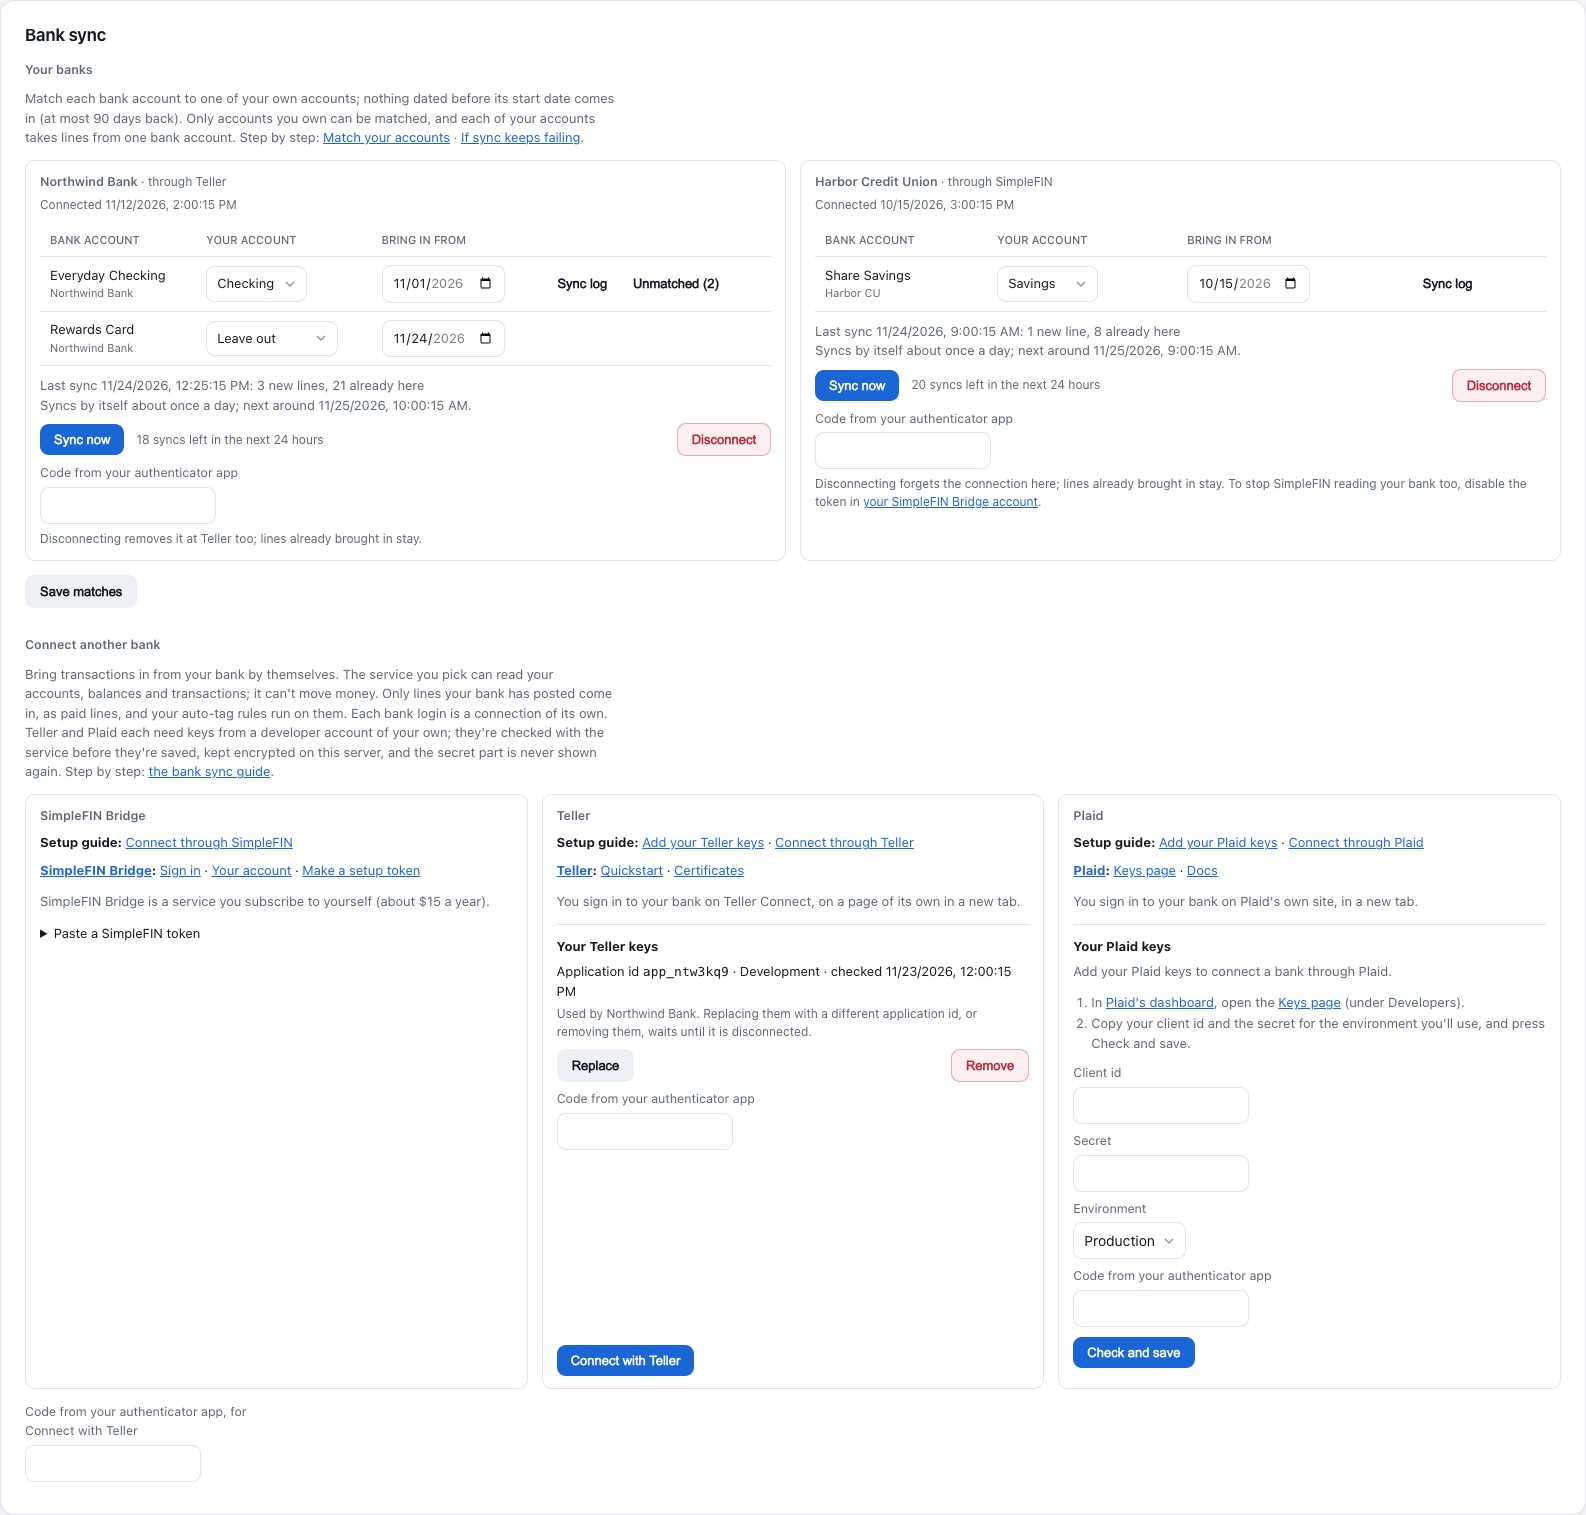
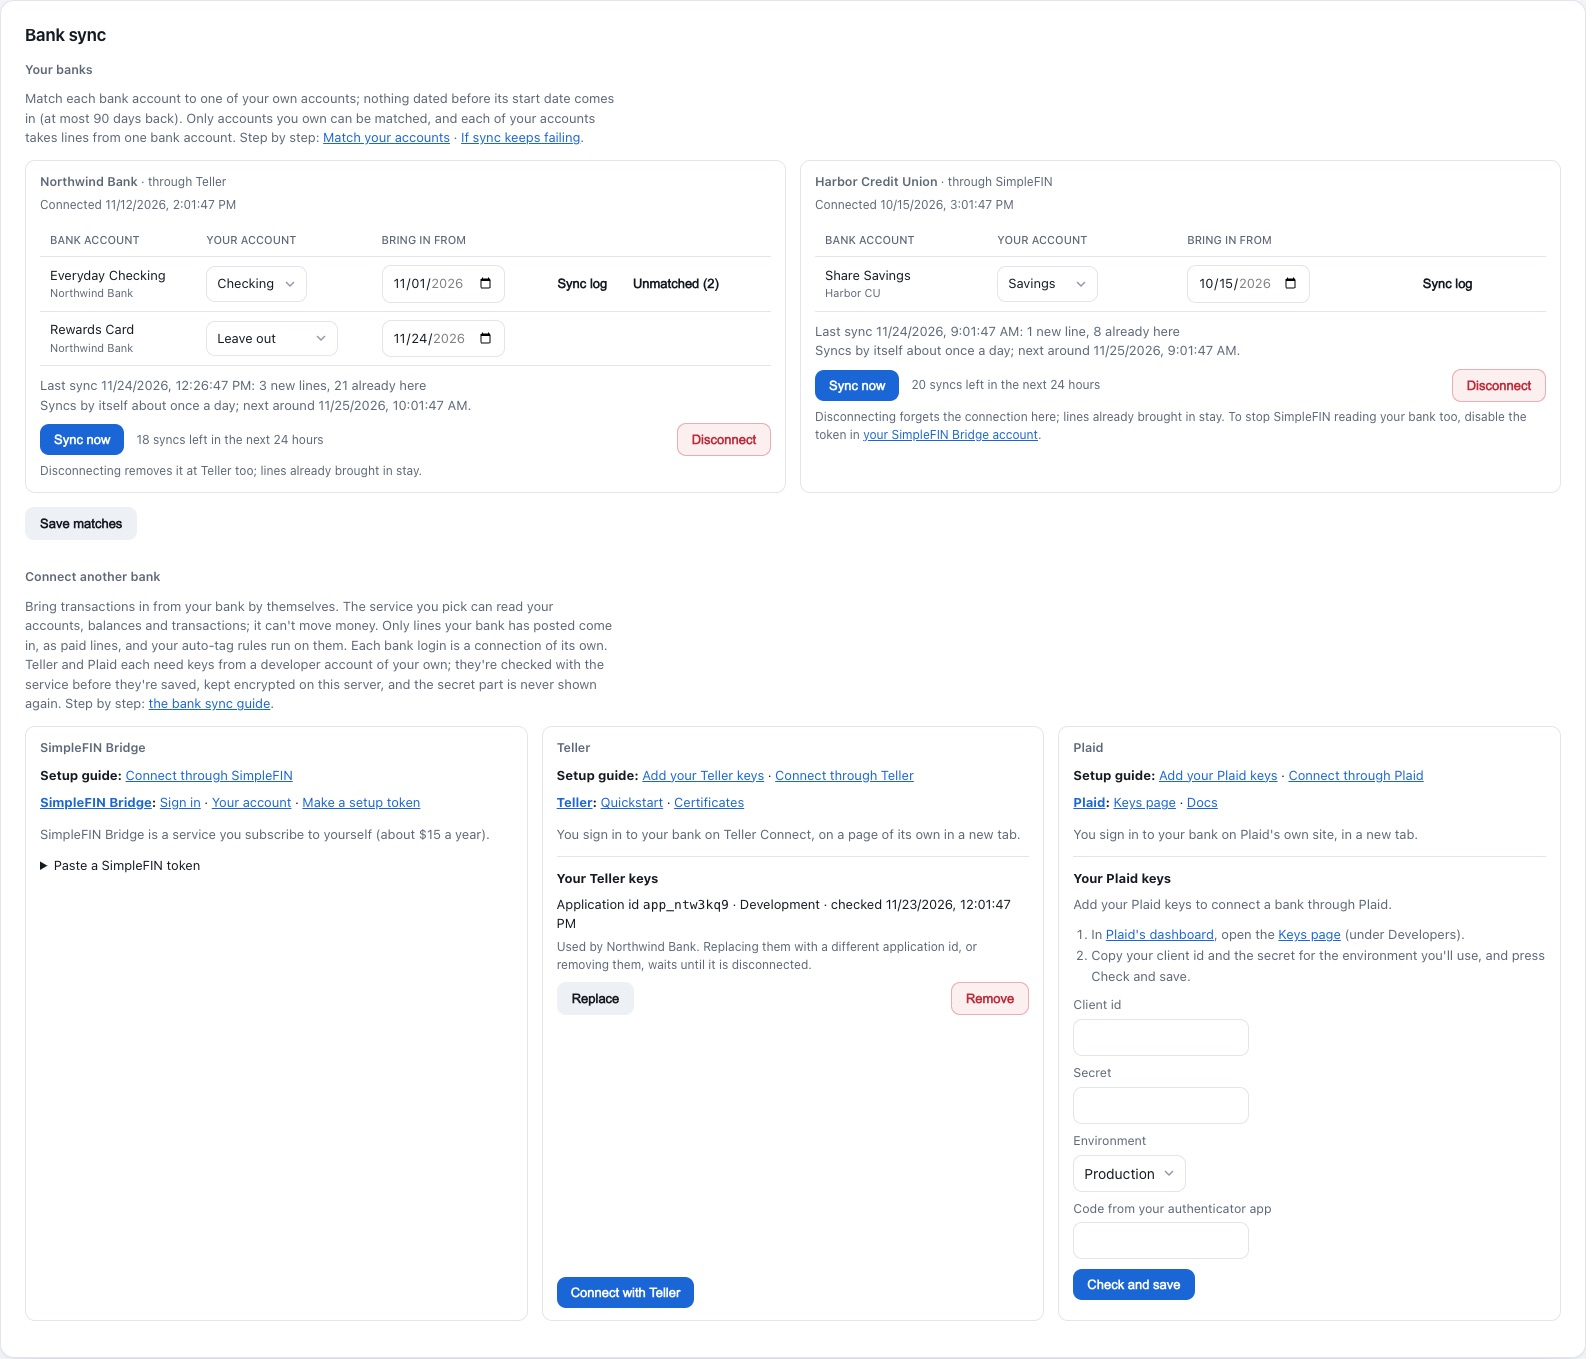
Web 1.117.0: bank sync's code fields wait for their button (#343)

diff --git a/apps/web/index.html b/apps/web/index.html
@@ -3164,7 +3164,7 @@ const WEB_VERSION = "1.117.0";
 //
 // When you bump WEB_VERSION, add the matching line here. Do not rewrite
 // history — only append new entries.
-// 1.117.0 (2026-11-24, claude+mkolakowski): (#342, #343) Settings → Bank sync: one card per provider (SimpleFIN Bridge, Teller, Plaid; _bankConnectHtml, after the connected banks) holding its setup guide line (_bankGuideHtml from BANK_GUIDE_STEPS: Through SimpleFIN, Add your own Teller or Plaid keys, Through Teller or Plaid), its own pages (_bankProviderLinks(key, true) leaves the guide out), its keys (_bankKeysCardHtml now an inner .bank-keys block; _bankKeysHtml became _bankKeysShown) and its Connect. Connected banks come first, under "Your banks", with Match your accounts and If sync keeps failing links. .bank-grid lays providers ~300px and banks ~620px each, side by side as room allows, and the Settings column widens to 1600px while Bank sync is shown on a window 1000px or wider. The shared connect code field names what it's for.
+// 1.117.0 (2026-11-24, claude+mkolakowski): (#342, #343) Settings → Bank sync: one card per provider (SimpleFIN Bridge, Teller, Plaid; _bankConnectHtml, after the connected banks) holding its setup guide line (_bankGuideHtml from BANK_GUIDE_STEPS: Through SimpleFIN, Add your own Teller or Plaid keys, Through Teller or Plaid), its own pages (_bankProviderLinks(key, true) leaves the guide out), its keys (_bankKeysCardHtml now an inner .bank-keys block; _bankKeysHtml became _bankKeysShown) and its Connect. Connected banks come first, under "Your banks", with Match your accounts and If sync keeps failing links. .bank-grid lays providers ~300px and banks ~620px each, side by side as room allows, and the Settings column widens to 1600px while Bank sync is shown on a window 1000px or wider. Two-factor code fields for Disconnect, removing keys and Connect with Teller or Plaid stay hidden until the button is pressed (_bankCodeLater, _bankAskCode): the first press shows the field and focuses it, the next goes ahead; Connect's field is in each card (bankConnectCode_teller, _plaid).
 // 1.116.1 (2026-11-24, claude+mkolakowski): (#336) Links to the bank sync guide on GitHub Pages. BANK_GUIDE is the guide's address; BANK_PROVIDERS entries carry `guide` (SimpleFIN: #through-simplefin) or a 'WalletWeather guide' link (Teller, Plaid: #add-your-own-teller-or-plaid-keys) that _bankProviderLinks draws, and Connect a bank says "Step by step: the bank sync guide".
 // 1.116.0 (2026-11-24, claude+mkolakowski): (#334) Bank sync setup links and a card per provider. BANK_PROVIDERS gains teller and plaid (name, home, links[]); _bankProviderLinks draws a provider's `links` when it has them. The Teller and Plaid key steps link to the provider's dashboard, quickstart, certificates and Keys pages (_bankLink). _bankConnectHtml draws Teller, Plaid and SimpleFIN Bridge each as a bordered .bank-provider card (title, provider links, what it does, its connect button; SimpleFIN's token form stays inside its card), the same look as the .bank-keys cards.
 // 1.115.3 (2026-11-23, claude+mkolakowski): (#292) two design calls from the code review: Settings and Admin open with a real <h1> in a .settings-nav wrapper that holds the heading and the tab list (it replaces the ::before text on .settings-tabs; on a wide window the wrapper is the sticky left column, the heading 26px; on a phone the heading is 22px above the scrolling tabs), and the wide-window active section in the list uses the 10% tint with --accent-ink like the other pills (it was left at 15% and --accent); a Calendar event with no category colour gets class uncat and shows its kind by a tint (green in, red out, an outline for a transfer; on a phone its colour bar takes the kind's colour).
@@ -10168,6 +10168,23 @@ function _bankCodeField(id, label) {
     ? `<div style="max-width:240px;margin-top:8px"><label for="${id}">${escapeHtml(label || 'Code from your authenticator app')}</label>
          <input id="${id}" inputmode="numeric" autocomplete="one-time-code" maxlength="40"></div>` : '';
 }
+// A code field kept out of sight until its button is pressed (#343): the
+// first press shows it and asks for the code, the next one goes ahead.
+function _bankCodeLater(id, button) {
+  const field = _bankCodeField(id);
+  return field ? `<div class="bank-code-later hidden" data-for="${id}">${field}
+    <div style="font-size:12px;color:var(--muted);margin-top:4px">Enter the code, then press ${escapeHtml(button)} again.</div></div>` : '';
+}
+// True when the code still had to be asked for: shows its field and puts the
+// cursor in it, and the button's action waits for the next press.
+function _bankAskCode(id) {
+  const box = document.querySelector(`.bank-code-later[data-for="${id}"]`);
+  if (!box || !box.classList.contains('hidden')) return false;
+  box.classList.remove('hidden');
+  const el = document.getElementById(id);
+  if (el) el.focus();
+  return true;
+}
 function _bankWhen(iso) {
   if (!iso) return '';
   const d = new Date(iso);
@@ -10388,7 +10405,7 @@ function _bankKeysCardHtml(p) {
         <span style="flex:1"></span>
         ${bankKeysReplacing[p] ? '' : `<button class="danger" onclick="bankKeysRemove('${p}')">Remove</button>`}
       </div>
-      ${bankKeysReplacing[p] ? '' : _bankCodeField('bankKeysRemoveCode_' + p)}` : `
+      ${bankKeysReplacing[p] ? '' : _bankCodeLater('bankKeysRemoveCode_' + p, 'Remove')}` : `
       <div style="font-size:13px;color:var(--muted)">Add your ${name} keys to connect a bank through ${name}.</div>`;
   const form = mayEdit && (!k || bankKeysReplacing[p]) ? (p === 'teller' ? _bankTellerForm() : _bankPlaidForm()) : '';
   // Inside its provider's card (#343).
@@ -10507,6 +10524,7 @@ async function bankKeysSave(p) {
 }
 
 async function bankKeysRemove(p) {
+  if (_bankAskCode('bankKeysRemoveCode_' + p)) return;
   const name = p === 'teller' ? 'Teller' : 'Plaid';
   if (!(await confirmDialog(`Remove your ${name} keys? You can add them again later.`,
                             { title: `Remove ${name} keys`, okLabel: 'Remove', danger: true }))) return;
@@ -10535,7 +10553,8 @@ function _bankConnectHtml(more) {
   const keyed = (key, label, text) => card(key, `
       <p style="font-size:13px;color:var(--muted);margin:0">${text}</p>
       ${keysShown.includes(key) ? _bankKeysCardHtml(key) : ''}
-      ${offered(key) ? `<div class="bank-provider-end"><button onclick="bankStartProvider('${key}')">${label}</button></div>` : ''}`);
+      ${offered(key) ? `<div class="bank-provider-end"><button onclick="bankStartProvider('${key}')">${label}</button>
+        ${_bankCodeLater('bankConnectCode_' + key, label)}</div>` : ''}`);
   const cards = {
     simplefin: () => card('simplefin', `
       <p style="color:var(--muted);margin:0 0 12px;font-size:13px">
@@ -10568,9 +10587,7 @@ function _bankConnectHtml(more) {
       ${keysShown.length ? `Teller and Plaid each need keys from a developer account of your own; they're checked with
       the service before they're saved, kept encrypted on this server, and the secret part is never shown again.` : ''}
       Step by step: ${_bankLink(BANK_GUIDE, 'the bank sync guide')}.</p>
-    <div class="bank-grid bank-providers">${show.map(k => cards[k]()).join('')}</div>
-    ${(offered('teller') || offered('plaid')) ? _bankCodeField('bankConnectCode',
-      `Code from your authenticator app, for Connect with ${['teller', 'plaid'].filter(offered).map(k => BANK_PROVIDERS[k].name).join(' or ')}`) : ''}`;
+    <div class="bank-grid bank-providers">${show.map(k => cards[k]()).join('')}</div>`;
 }
 
 function _bankConnHtml(c, owned) {
@@ -10629,7 +10646,7 @@ function _bankConnHtml(c, owned) {
       <span style="flex:1"></span>
       <button class="danger" onclick="bankDisconnect(${id})">Disconnect</button>
     </div>
-    ${_bankCodeField('bankDisconnectCode' + id)}
+    ${_bankCodeLater('bankDisconnectCode' + id, 'Disconnect')}
     <div style="font-size:12px;color:var(--muted);margin-top:6px">${simplefin
       ? `Disconnecting forgets the connection here; lines already brought in stay. To stop SimpleFIN reading your bank too, disable the token in ${_bankLink(BANK_PROVIDERS.simplefin.account, 'your SimpleFIN Bridge account')}.`
       : `Disconnecting removes it at ${pname} too; lines already brought in stay.`}</div>
@@ -11145,11 +11162,13 @@ async function bankConnect() {
 const BANK_NAMES = { simplefin: 'SimpleFIN', teller: 'Teller', plaid: 'Plaid' };
 let _bankWaitTimer = null;
 async function bankStartProvider(provider) {
+  // Its card's code field, asked for on the first press (#343).
+  if (_bankAskCode('bankConnectCode_' + provider)) return;
   const name = BANK_NAMES[provider] || provider;
   // Opened now, in the click, so the browser doesn't block it; pointed at
   // the provider once the server has the address.
   const tab = window.open('', '_blank');
-  const codeEl = document.getElementById('bankConnectCode');
+  const codeEl = document.getElementById('bankConnectCode_' + provider);
   _bankSay(`Opening ${name}…`);
   let r;
   try {
@@ -11263,6 +11282,7 @@ async function bankSyncNow(connectionId) {
 }
 
 async function bankDisconnect(connectionId) {
+  if (_bankAskCode('bankDisconnectCode' + connectionId)) return;
   const c = ((bankState && bankState.connections) || []).find(x => x.id === connectionId);
   const simplefin = !c || c.provider === 'simplefin';
   const label = c ? `${c.name} (${c.provider_name})` : 'this bank';

diff --git a/CHANGELOG.md b/CHANGELOG.md
@@ -78,7 +78,7 @@ App version: **1.98.3** · Web version: **1.117.0** · Schema version: **39** ·
 
 ### Changed
 
-- **Bank sync's settings, a card per service, using a wide screen.** Settings → Bank sync now shows one card each for SimpleFIN Bridge, Teller and Plaid with everything to set it up: its guide, its pages, your keys (Teller and Plaid, no longer a separate section) and its Connect button. Your connected banks come first, under *Your banks*, with the cards to connect another below them. On a wide monitor the page widens and the cards sit side by side (the services up to three across, your banks two across); on a phone or a narrow window they stack as before (web 1.117.0).
+- **Bank sync's settings, a card per service, using a wide screen.** Settings → Bank sync now shows one card each for SimpleFIN Bridge, Teller and Plaid with everything to set it up: its guide, its pages, your keys (Teller and Plaid, no longer a separate section) and its Connect button. Your connected banks come first, under *Your banks*, with the cards to connect another below them. On a wide monitor the page widens and the cards sit side by side (the services up to three across, your banks two across); on a phone or a narrow window they stack as before. With two-factor sign-in on, the code field for Disconnect, Remove (keys) and Connect stays hidden until you press the button: the first press asks for the code, the next goes ahead (web 1.117.0).
 
 ## [1.98.3] — 2026-11-24
 
